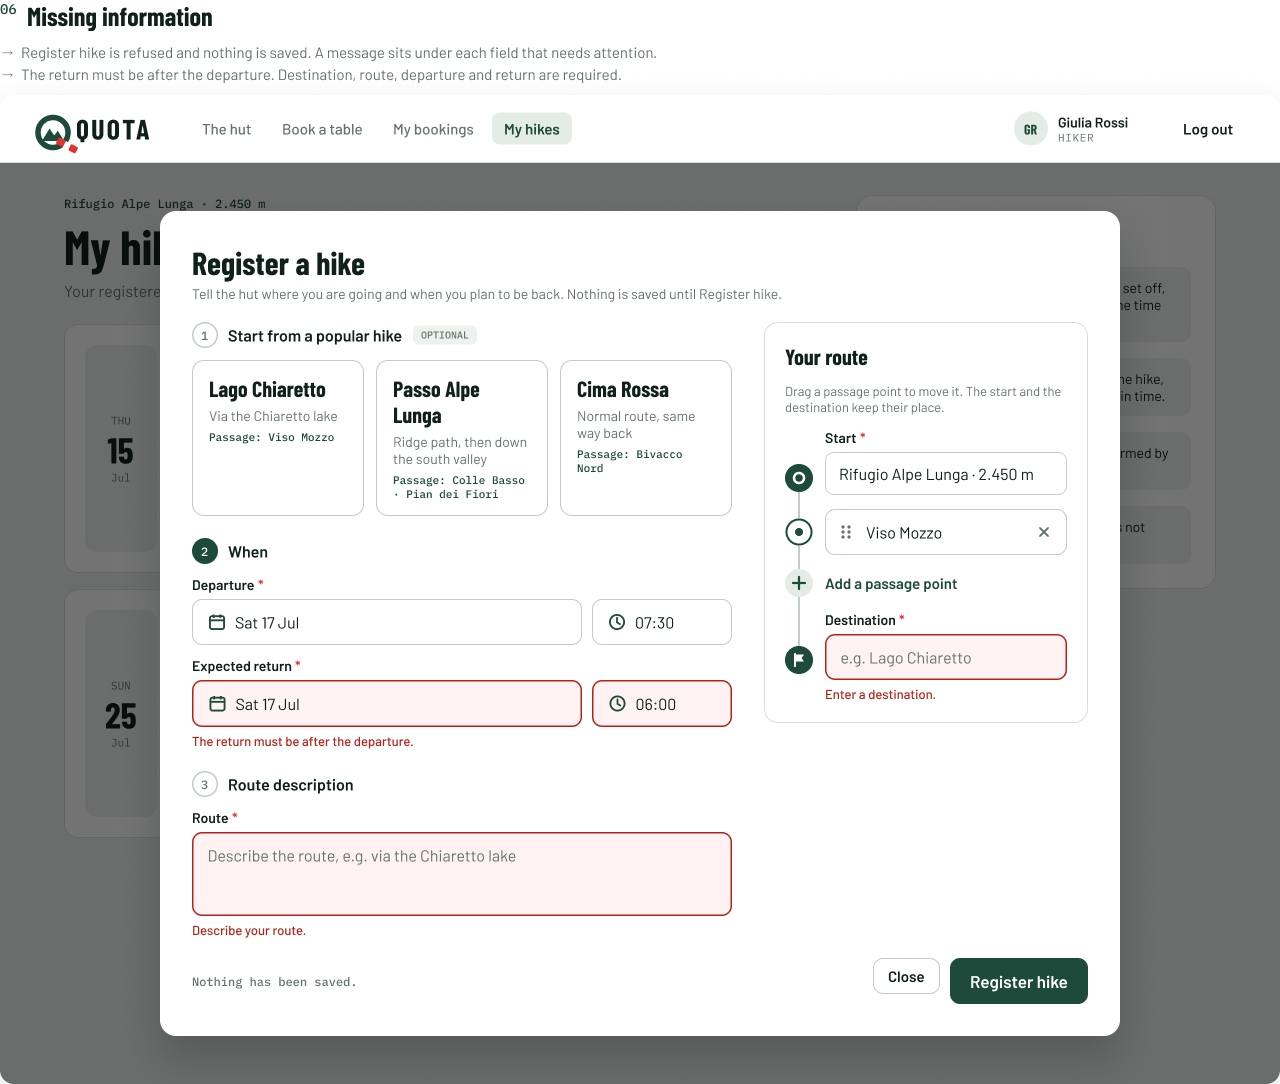
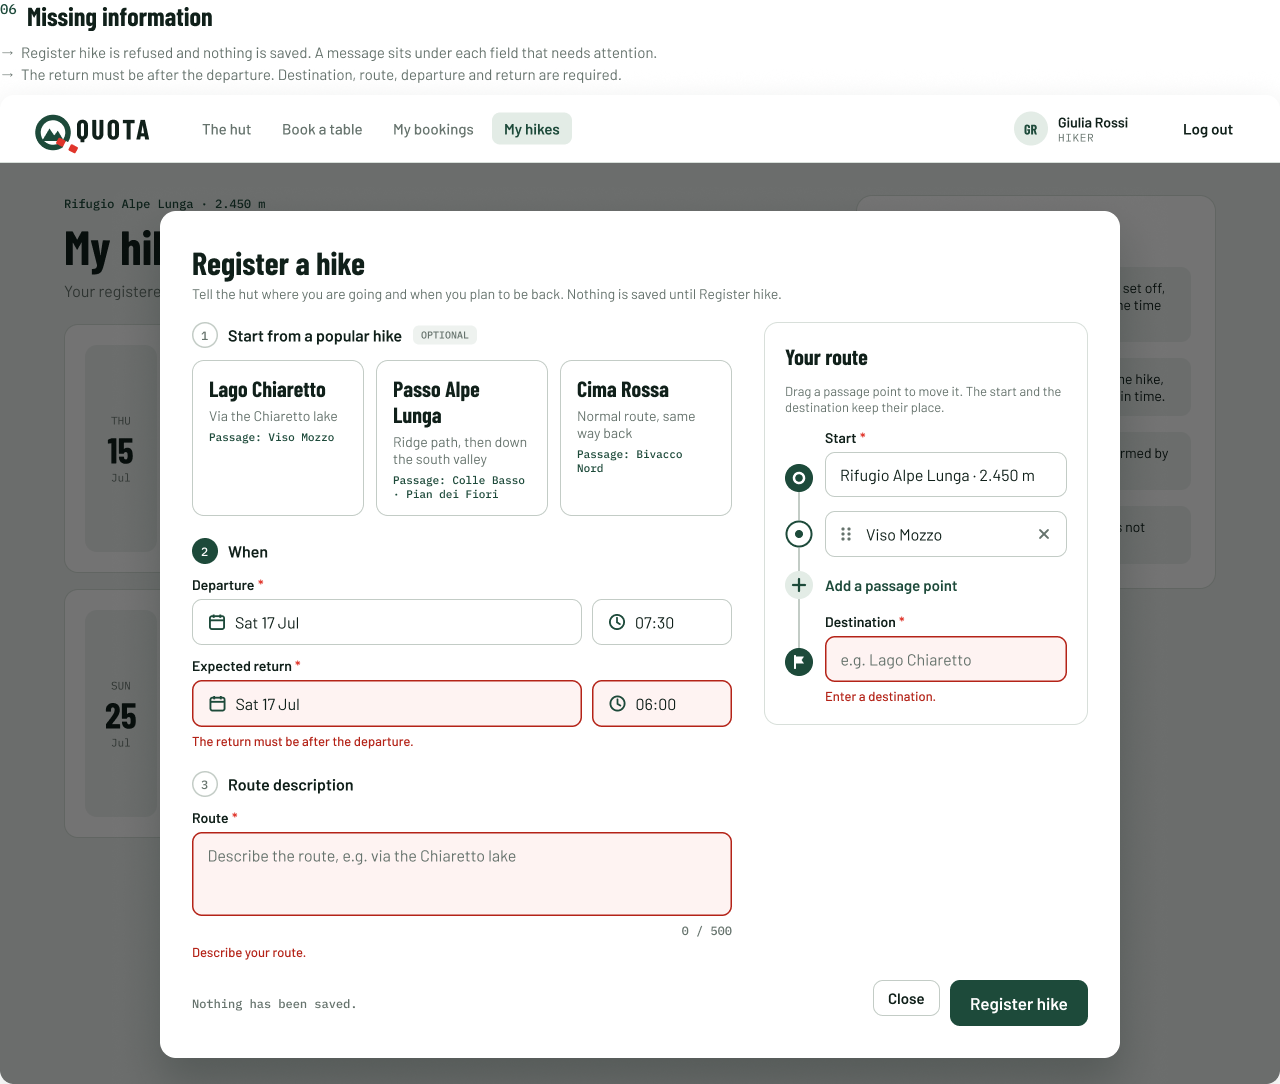
fix: aligned mockup with implemented frontend

Changed region(s): [[0.125, 0.8524, 0.875, 0.9742], [0.625, 0.4262, 0.8125, 0.6697]]

diff --git a/docs/mockups/register-a-hike/README.md b/docs/mockups/register-a-hike/README.md
@@ -27,7 +27,8 @@ Everything shown comes from the story or from the product owner's clarifications
 | Product owner, [#49](https://github.com/SE2-Polito/AY26-27-Mountain-Hut/issues/49) | The hike has a **destination** (a name), a **route** (a text description, e.g. "via the Chiaretto lake") and **intermediate passage points** (e.g. "Viso Mozzo"). |
 | Product owner, [#49](https://github.com/SE2-Polito/AY26-27-Mountain-Hut/issues/49) | The hiker can also select one of a few predefined or popular hikes, as long as the UX is smooth. |
 | Team decision (not yet confirmed by the product owner) | The popular hikes are a fixed list, written by the team. There is no algorithm that updates it. Choosing one only fills the form: the hiker can change everything before registering. |
-| Team decision (not yet confirmed by the product owner) | Destination and route are required. The passage points are optional, with no fixed limit. |
+| Team decision (not yet confirmed by the product owner) | Start, destination and route are required. The passage points are optional, with no fixed limit. |
+| Team decision (not yet confirmed by the product owner) | The route description has a maximum of 500 characters, because the server keeps at most 500. A counter under the field shows how many are used (e.g. *38 / 500*). The limit is the team's choice: the specifications do not give one. |
 | Team decision (not yet confirmed by the product owner) | The hike starts at the hut unless the hiker says otherwise: the start is filled with the hut and the hiker can change it (e.g. *Pian del Re*). The product owner lists only the destination, the route and the passage points ([#49](https://github.com/SE2-Polito/AY26-27-Mountain-Hut/issues/49)). |
 | Product owner, [#51](https://github.com/SE2-Polito/AY26-27-Mountain-Hut/issues/51) | The hike has a planned **departure** and an expected **return** (day and time), both required. The product owner agreed with the team's reading that the return must be after the departure. |
 | Team decision (not yet confirmed by the product owner) | A hiker can register more than one hike, but two hikes of the same hiker cannot overlap in time. |
@@ -48,7 +49,7 @@ Everything shown comes from the story or from the product owner's clarifications
    - Missing information (screen 6): a message sits under each field that needs attention. The return must be after the departure.
    - Departure in the past (screen 10): the departure is earlier than now. A message sits under the departure. The hiker chooses a later time or closes the dialog.
   - Overlap (screen 7): the times overlap another registered hike of the same hiker. A red note says which one. The hiker can change the times or close the dialog.
-6. When the hike is registered, the dialog closes and the list shows the new hike in its place, with a green note (screen 8). The hiker is emailed the confirmation.
+6. When the hike is registered, the dialog closes and the list shows the new hike in its place, with a blue note (screen 8). The hiker is emailed the confirmation.
 
 ## Screens
 
@@ -102,10 +103,10 @@ The sheet has the same steps and rules as desktop screens 3 to 7. With many pass
 | Start from a popular hike | Optional. One card per popular hike, with the destination, the route and the passage points. Pressing a card fills the form; the card stays marked as chosen. |
 | Departure | Required. Day and time. |
 | Expected return | Required. Day and time, after the departure. |
-| Route | Required. A text description, e.g. "via the Chiaretto lake". |
+| Route | Required. A text description, e.g. "via the Chiaretto lake", up to 500 characters. A counter under the field, on the right, shows the characters used (*0 / 500* when empty). |
 | Start | Required. Filled with the hut (*Rifugio Alpe Lunga · 2.450 m*); the hiker can change it. Free text (a name), on one line. Always first: it cannot be moved. |
 | Passage points | Optional. Free text, one per line, in order, with no fixed limit. The hiker adds them with *Add a passage point*, moves them by dragging the handle and removes them with the remove button. See [Many passage points](#many-passage-points). |
-| Destination | Required. Free text (a name). Read only in its place: always last. |
+| Destination | Required. Free text (a name). Always last: it cannot be moved. |
 
 ### Many passage points
 
@@ -126,14 +127,17 @@ On a phone the sheet scrolls and the list grows with it.
 |---|---|
 | Page subtitle | Your registered hikes, by departure date. |
 | *Good to know* | Register your hike before you set off, with the time you leave and the time you expect to be back. · You can register more than one hike, but two hikes cannot overlap in time. · Every registered hike is confirmed by email. · This helps the hut, but it does not replace rescue services. |
-| No hikes | **No registered hikes.** Hikes you register will appear here, with the times you expect to leave and to be back. Button: *Register a hike*. |
+| No hikes | **No registered hikes** Hikes you register will appear here, with the times you expect to leave and to be back. Button: *Register a hike*. |
 | Dialog | **Register a hike.** "Tell the hut where you are going and when you plan to be back. Nothing is saved until Register hike." Buttons: *Close*, *Register hike*. |
 | Footer of the dialog | "Nothing is saved yet." After a refusal: "Nothing has been saved." |
 | Route | "Drag a passage point to move it. The start and the destination keep their place." |
 | Departure in the past | Under the departure, in red: "The departure cannot be in the past." Nothing is saved ("Nothing has been saved."). |
-| Missing information | Under the field: "Enter a starting point." · "Describe your route." · "Enter a destination." · "The return must be after the departure." The empty field keeps its placeholder (*Describe the route, e.g. via the Chiaretto lake*, *e.g. Lago Chiaretto*, *Choose a day*). |
+| Missing information | Under the field: "Enter a starting point." · "Choose the departure day and time." · "Choose the return day and time." · "Describe your route." · "Enter a destination." · "The return must be after the departure." The empty field keeps its placeholder (*Describe the route, e.g. via the Chiaretto lake*, *e.g. Pian del Re* for the start, *e.g. Lago Chiaretto*, *Choose a day*). |
 | Overlap | Red note: "These times overlap your hike to *Lago Chiaretto* (*Thu 15 Jul, 08:00 – 16:30*). Choose other times. Nothing has been saved." Every choice is kept. |
-| Registered | Green note on the list: "Your hike to *Passo Alpe Lunga* is registered. We emailed the confirmation to *giulia.rossi@example.com*." |
+| Registered | Blue (information) note on the list: "Your hike to *Passo Alpe Lunga* is registered. We emailed the confirmation to *giulia.rossi@example.com*." |
+| Saving | While the hike is being registered the button says *Registering…* and the fields are disabled. |
+| Server or network error | Red note: "Something went wrong on our side. Try again in a minute. Nothing has been saved." Every choice is kept. |
+| Year | A day in the current year is shown without the year (*Sat 17 Jul*). A day in another year shows it (*Sat 17 Jul 2027*). |
 | Not logged in | The login page (login mockup, screen 4). |
 
 ## Left out on purpose
